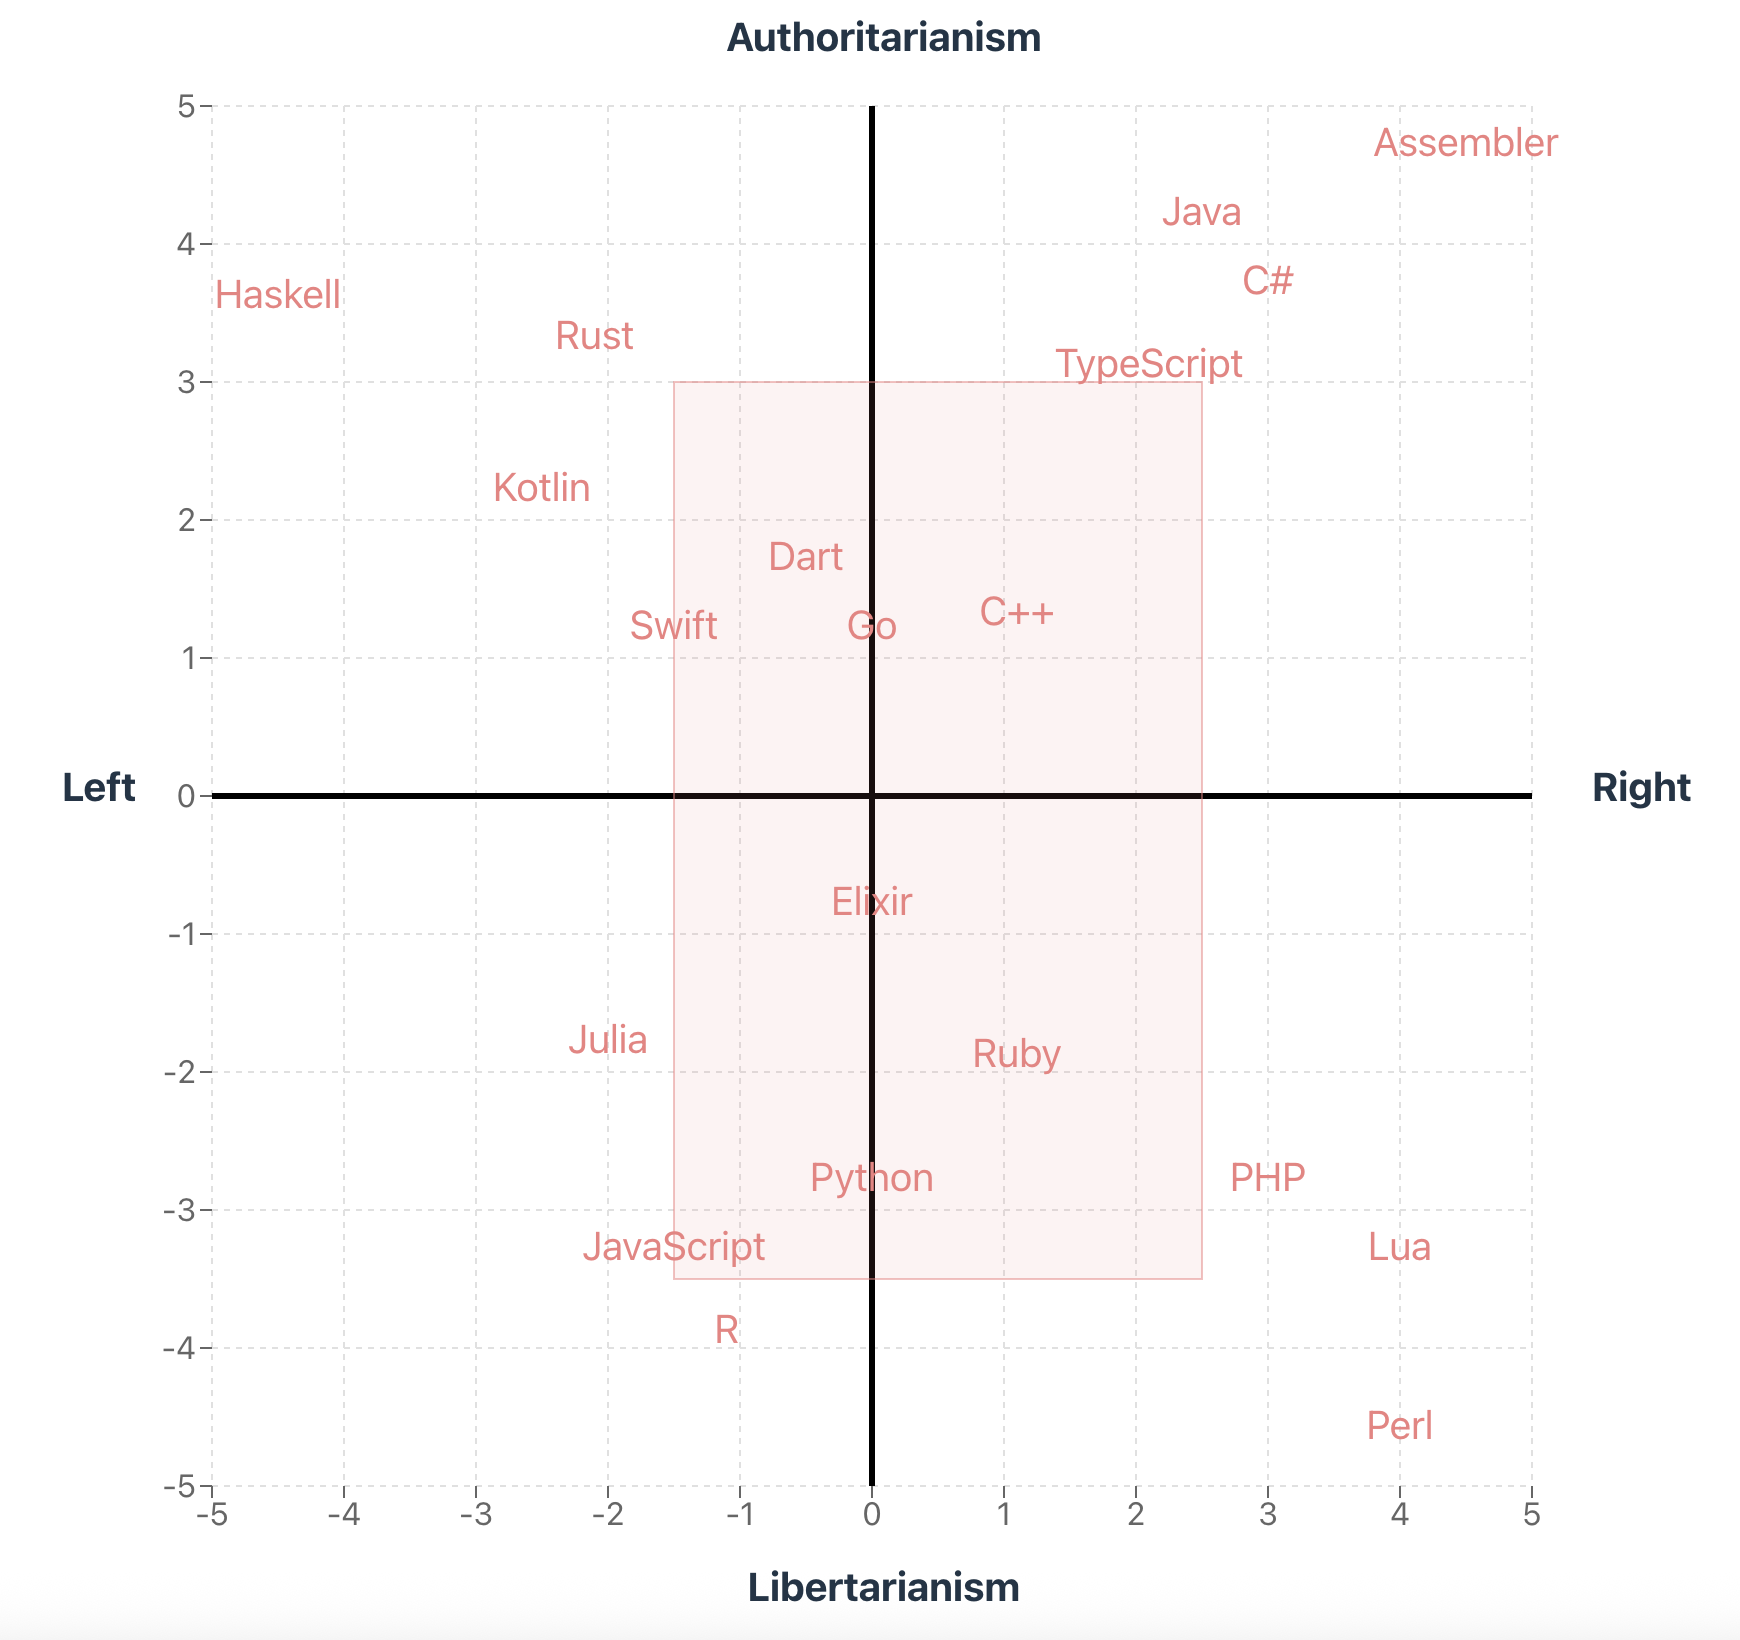
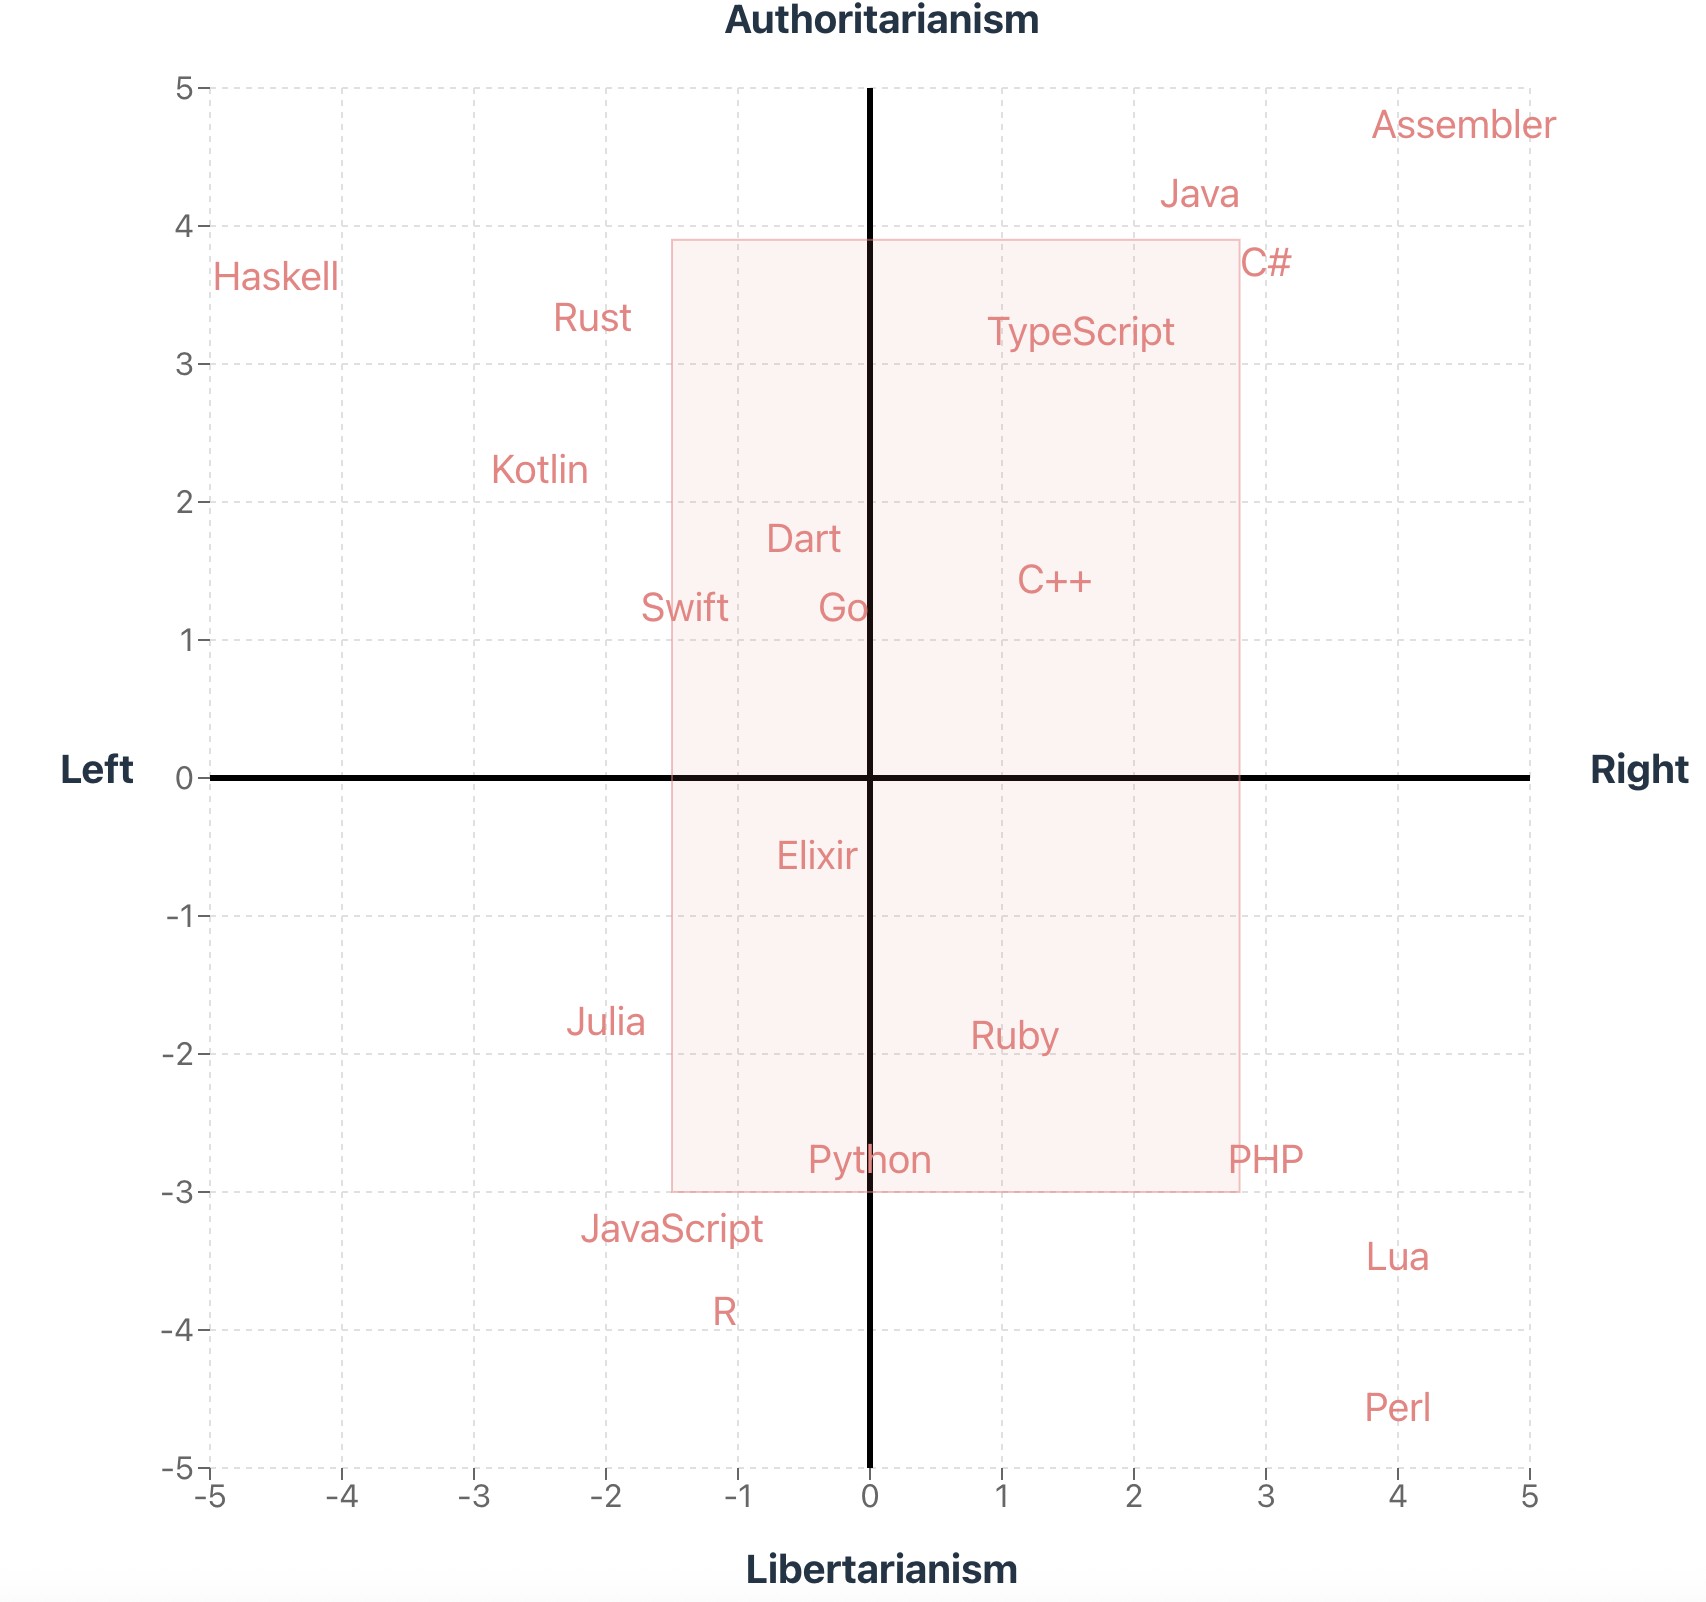
Small changes in lang coordinates

diff --git a/src/common/helpers.ts b/src/common/helpers.ts
@@ -189,7 +189,7 @@ export const myPoliticalEdges = {
 // Programming Languages
 export const myProgrammingEdges = {
   x1: -1.5,
-  y1: 3,
-  x2: 2.5,
-  y2: -3.5,
+  y1: 3.9,
+  x2: 2.8,
+  y2: -3,
 };
